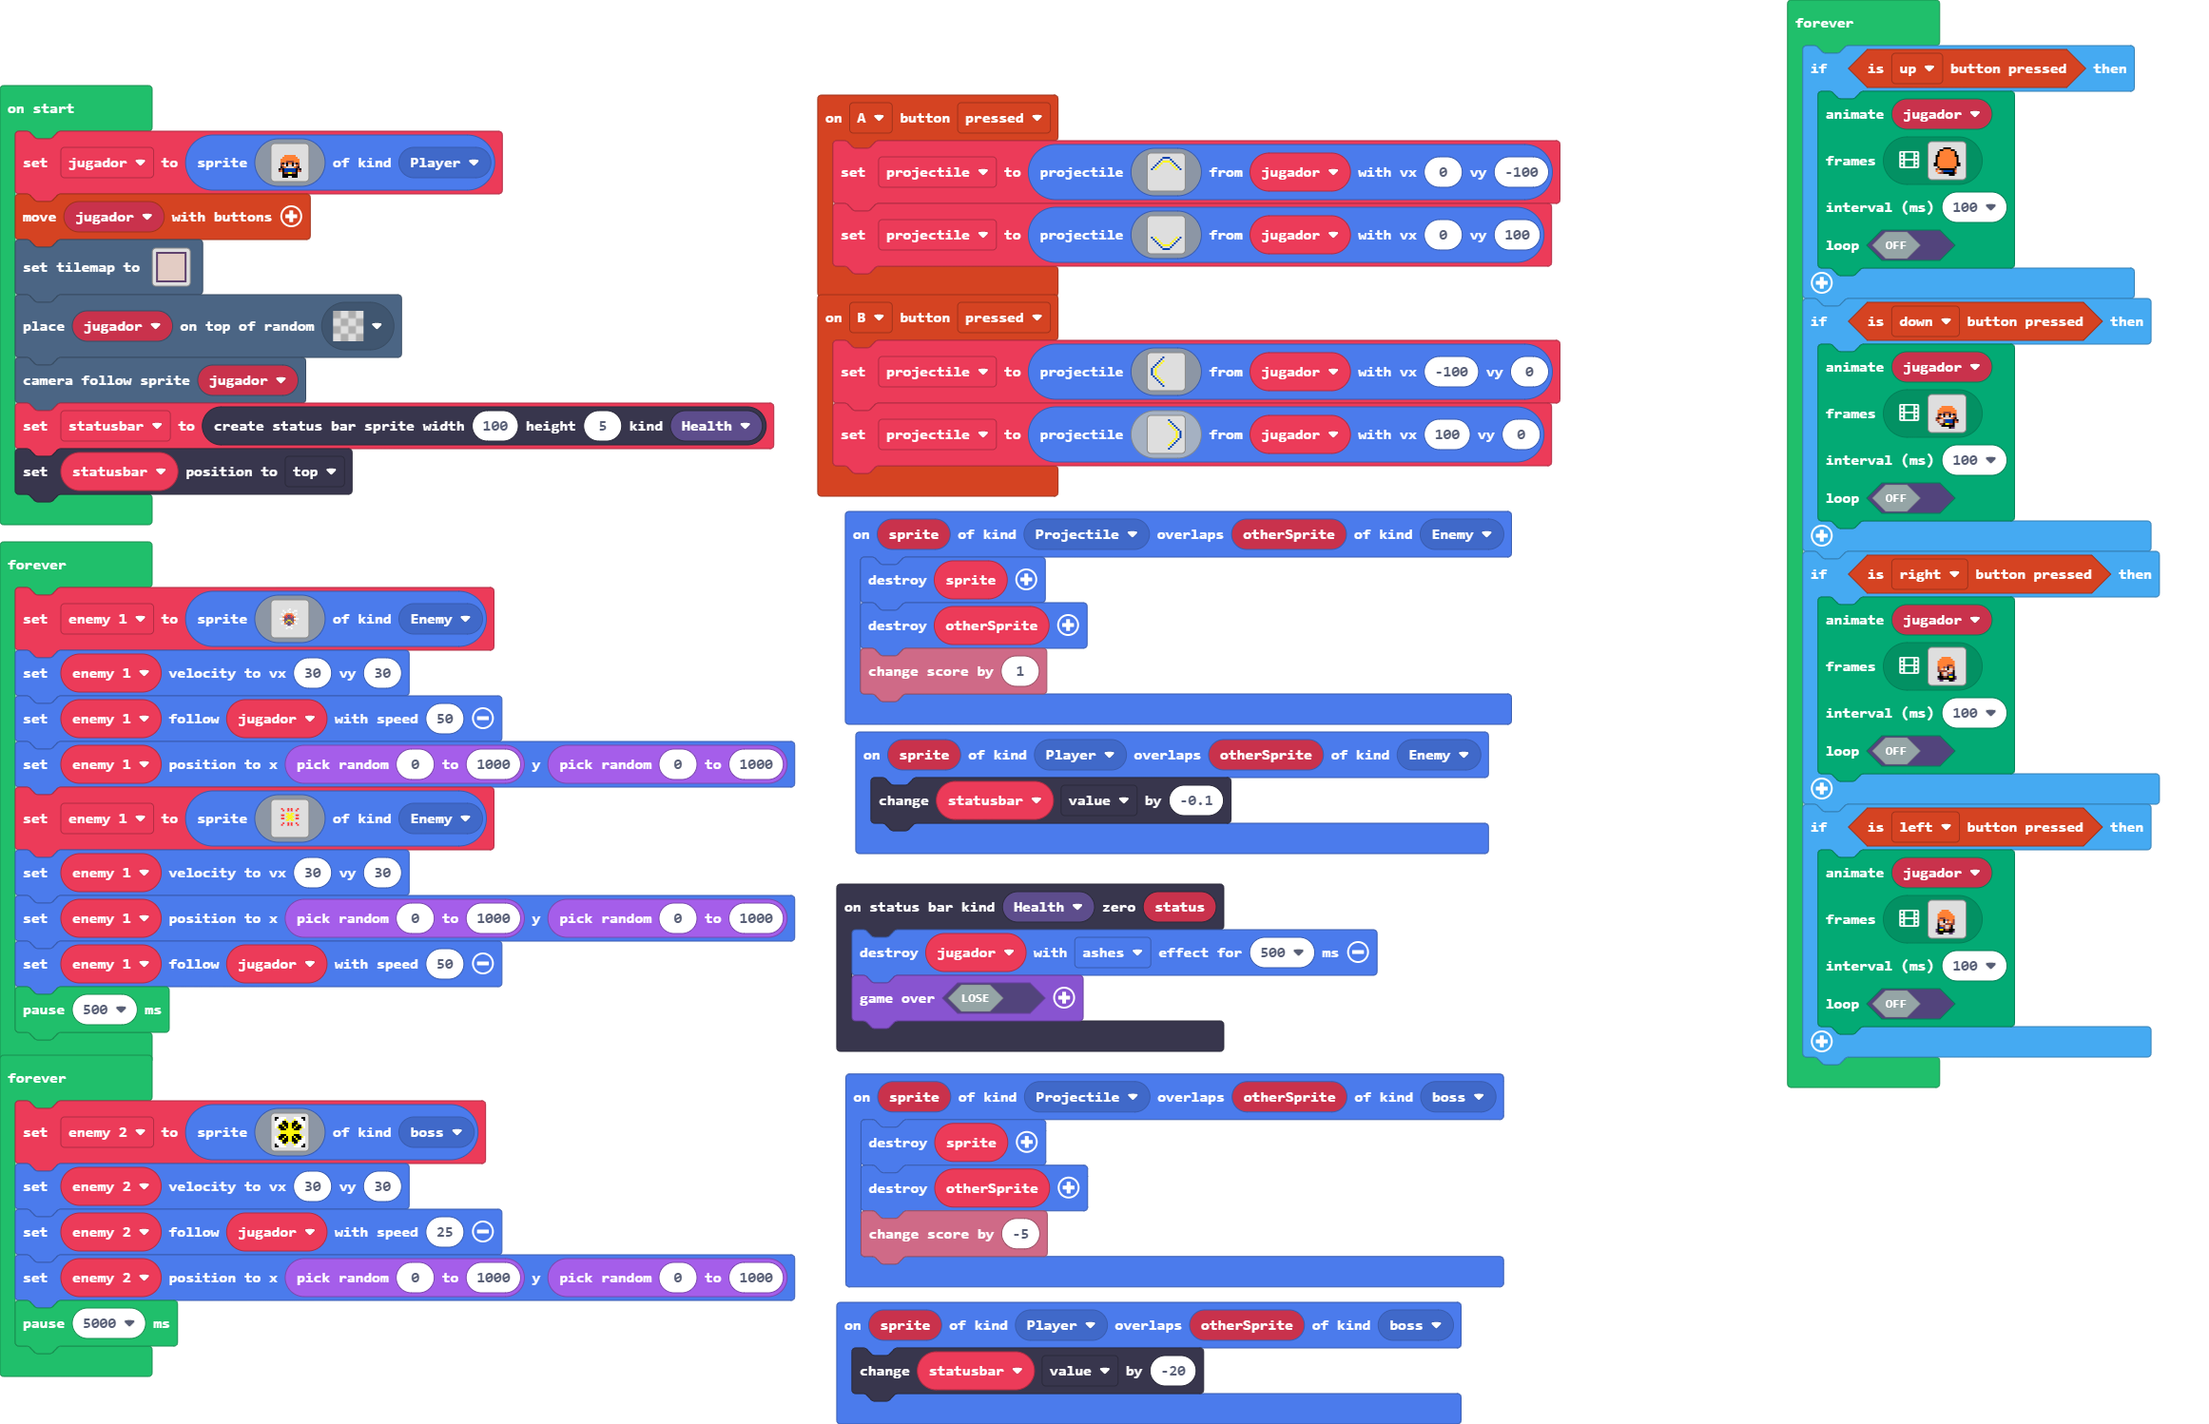
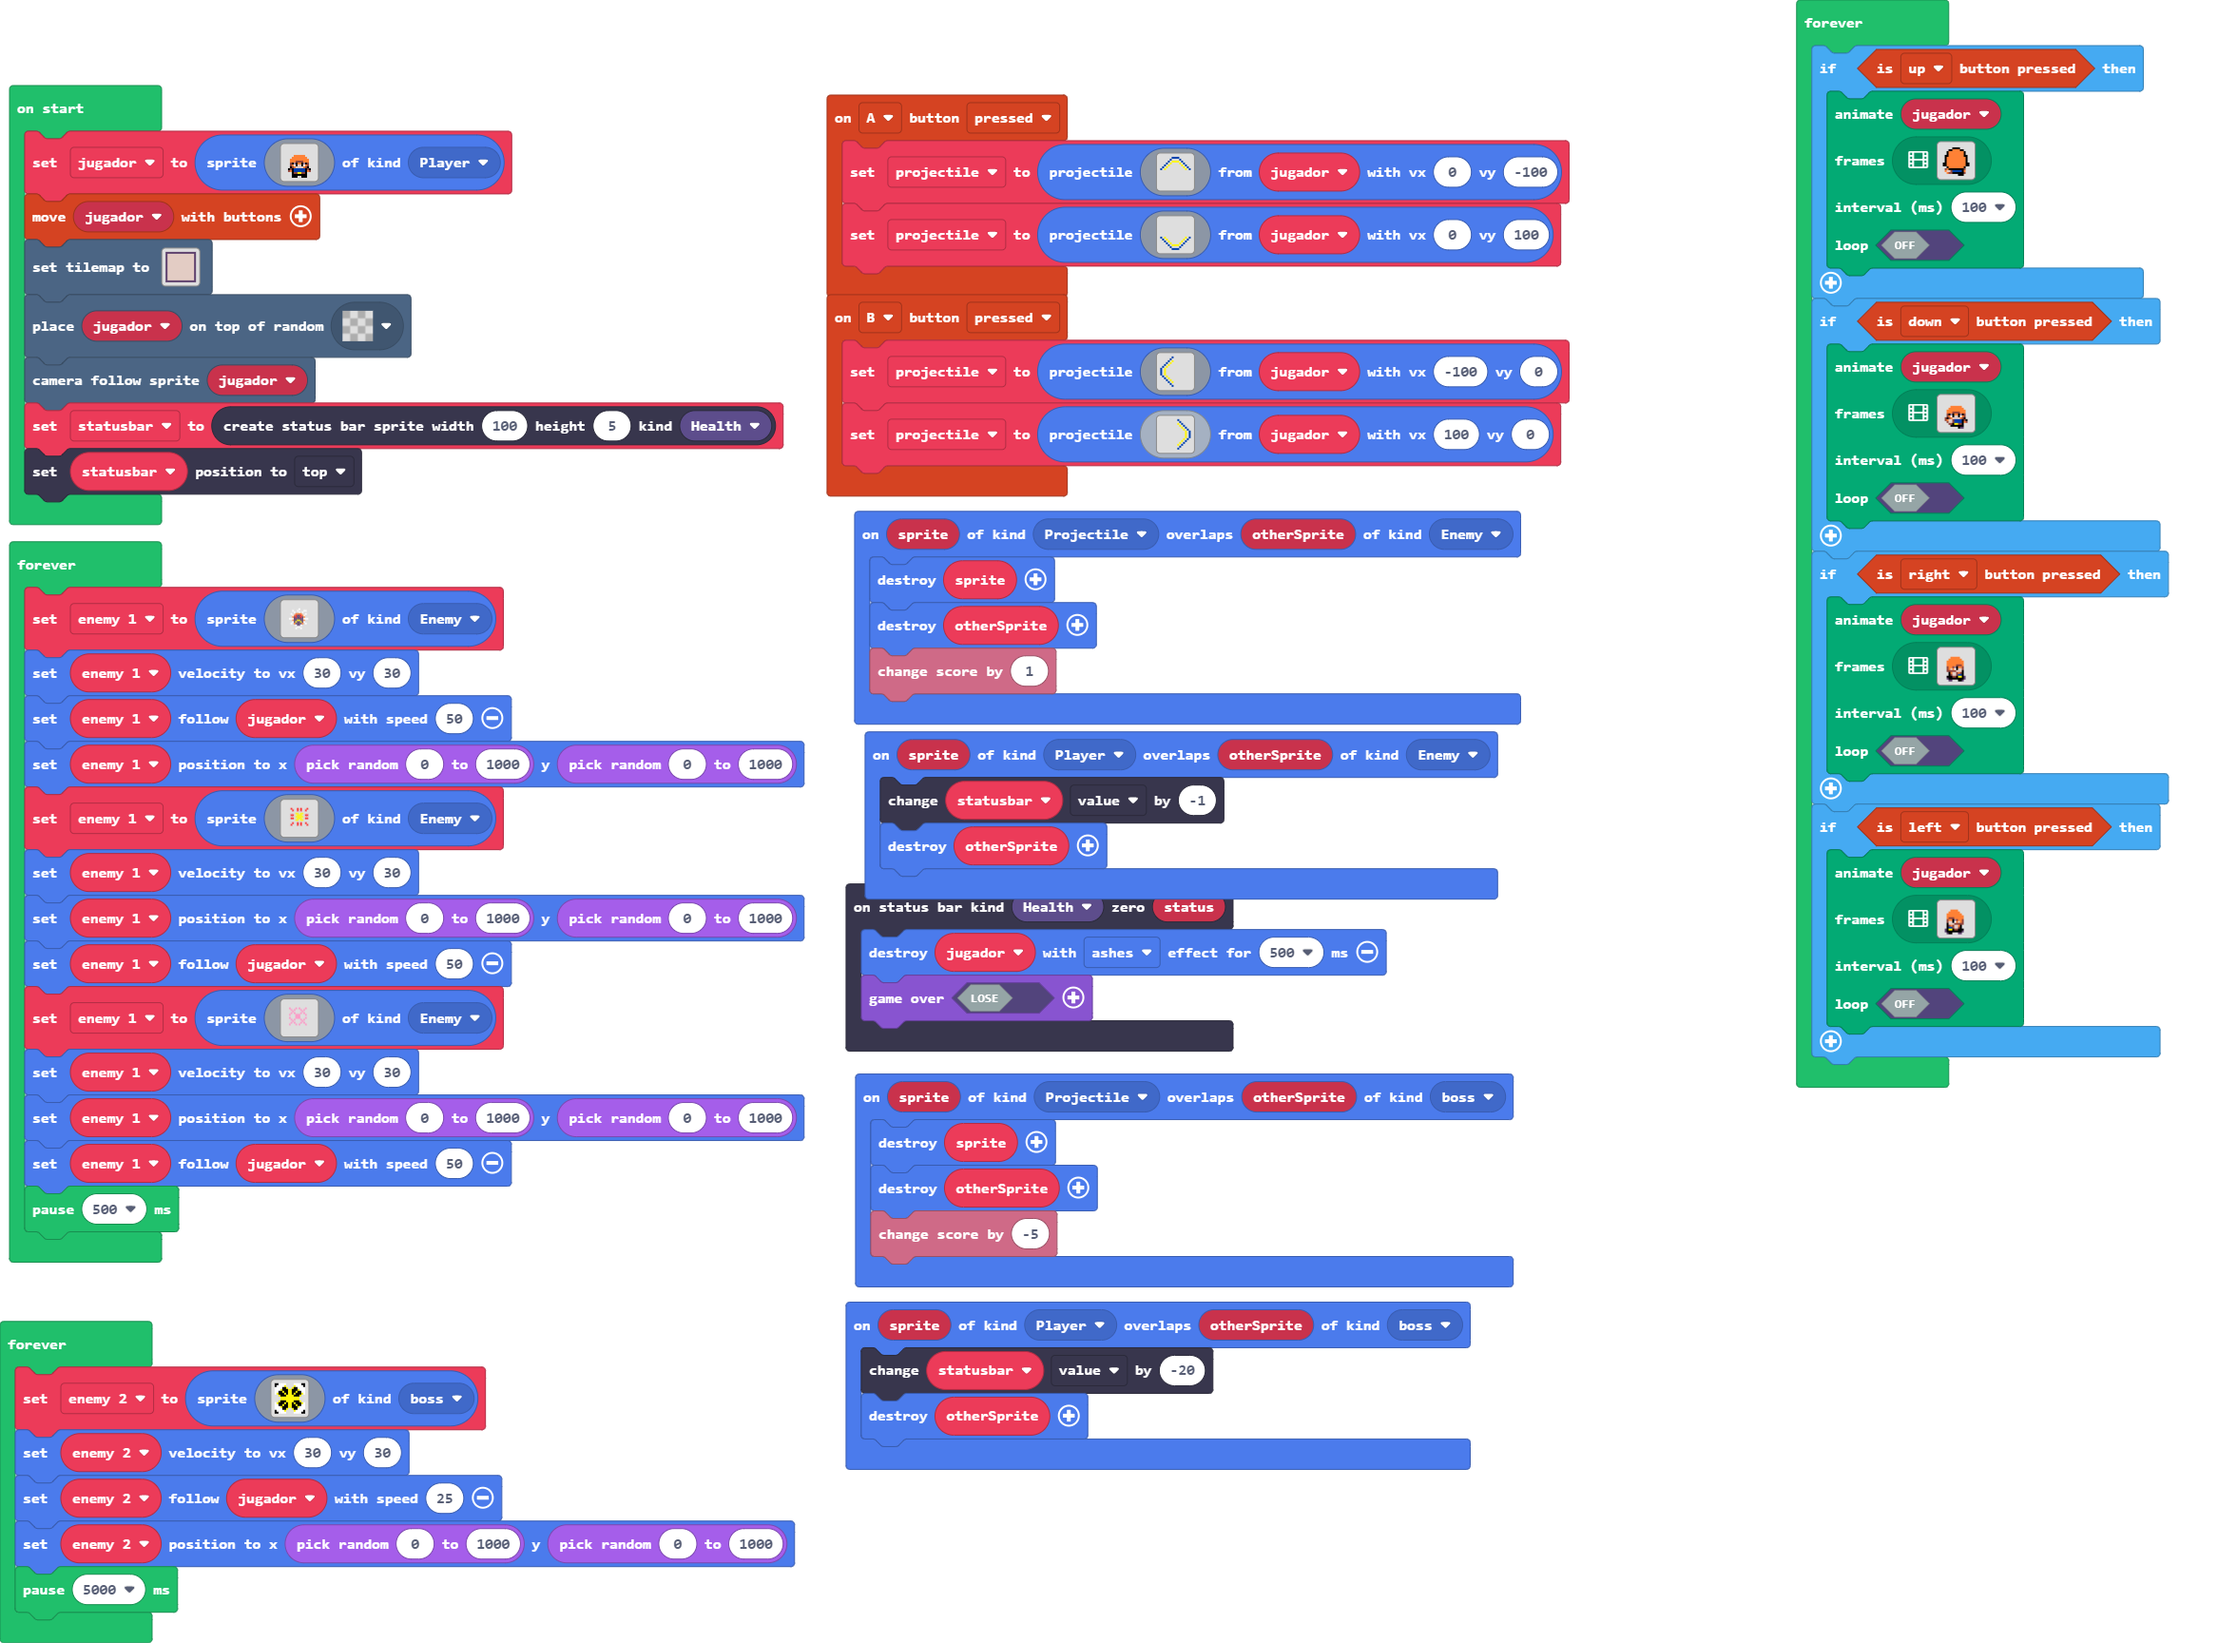
Update main.blocks, main.ts

diff --git a/main.ts b/main.ts
@@ -9,6 +9,7 @@ namespace SpriteKind {
 }
 sprites.onOverlap(SpriteKind.Player, SpriteKind.boss, function (sprite, otherSprite) {
     statusbar.value += -20
+    otherSprite.destroy()
 })
 controller.B.onEvent(ControllerButtonEvent.Pressed, function () {
     projectile = sprites.createProjectileFromSprite(img`
@@ -101,7 +102,8 @@ sprites.onOverlap(SpriteKind.Projectile, SpriteKind.Enemy, function (sprite, oth
     info.changeScoreBy(1)
 })
 sprites.onOverlap(SpriteKind.Player, SpriteKind.Enemy, function (sprite, otherSprite) {
-    statusbar.value += -0.1
+    statusbar.value += -1
+    otherSprite.destroy()
 })
 let enemy_2: Sprite = null
 let enemy_1: Sprite = null
@@ -308,6 +310,30 @@ forever(function () {
         ...................
         .....2..2.2..2.....
         ....2...2.2...2....
+        ...................
+        ...................
+        ...................
+        ...................
+        ...................
+        `, SpriteKind.Enemy)
+    enemy_1.setVelocity(30, 30)
+    enemy_1.setPosition(randint(0, 1000), randint(0, 1000))
+    enemy_1.follow(jugador, 50)
+    enemy_1 = sprites.create(img`
+        ...................
+        ...................
+        ...................
+        ...3...3.3...3.....
+        ....3.3...3.3......
+        .....3.....3.......
+        ....3.3...3.3......
+        ...3...333...3.....
+        .......333.........
+        ...3...333...3.....
+        ....3.3...3.3......
+        .....3.....3.......
+        ....3.3...3.3......
+        ...3...3.3...3.....
         ...................
         ...................
         ...................
